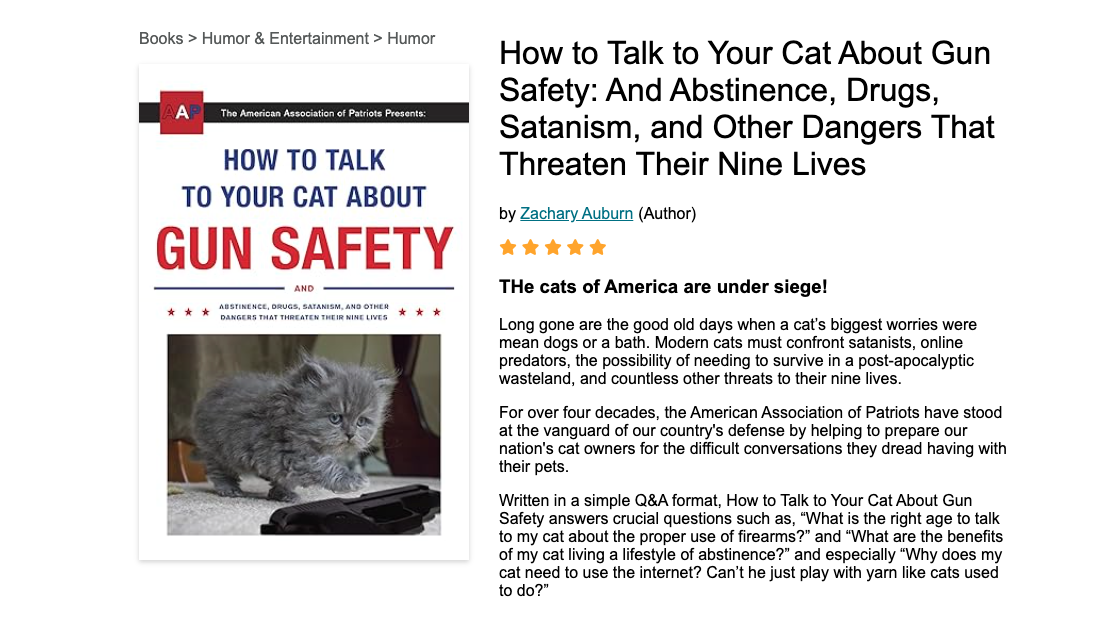
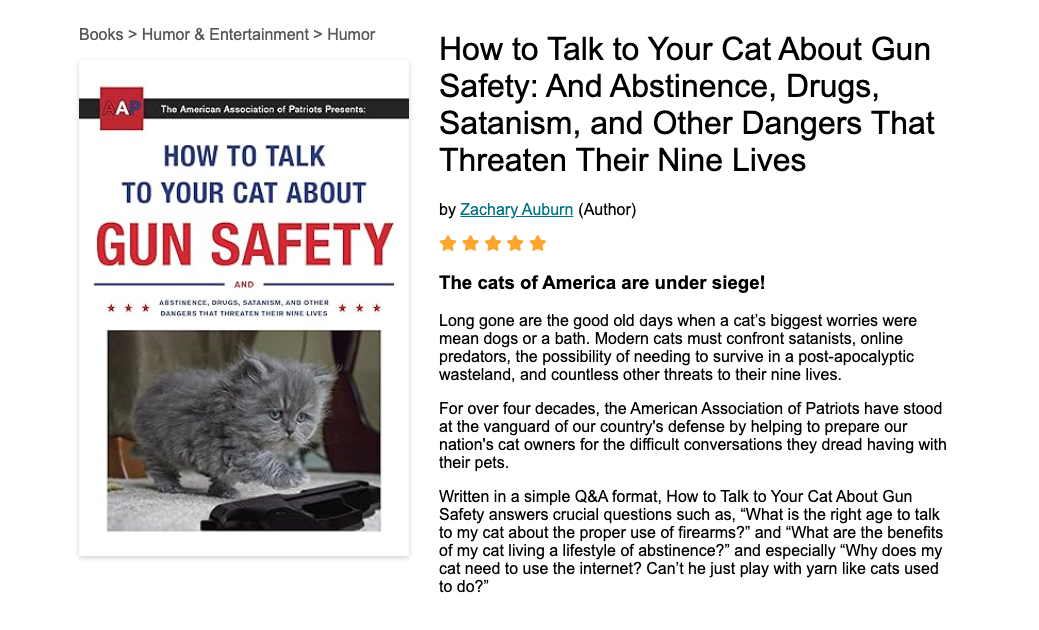
minor fixes

Changed region(s): [[0.0616, 0.0302, 0.924, 0.9349], [0.0924, 0.8746, 0.1232, 0.9048]]

diff --git a/index.html b/index.html
@@ -35,7 +35,7 @@
             </div>
             
             <!-- content -->
-            <h3>THe cats of America are under siege!</h3>
+            <h3>The cats of America are under siege!</h3>
             <p>Long gone are the good old days when a cat’s biggest worries were mean dogs or a bath. Modern cats must confront satanists, online predators, the possibility of needing to survive in a post-apocalyptic wasteland, and countless other threats to their nine lives.</p>
             <p>For over four decades, the American Association of Patriots have stood at the vanguard of our country's defense by helping to prepare our nation's cat owners for the difficult conversations they dread having with their pets.</p>
             <p>Written in a simple Q&A format, How to Talk to Your Cat About Gun Safety answers crucial questions such as, “What is the right age to talk to my cat about the proper use of firearms?” and “What are the benefits of my cat living a lifestyle of abstinence?” and especially “Why does my cat need to use the internet? Can’t he just play with yarn like cats used to do?”</p>

diff --git a/README.md b/README.md
@@ -37,7 +37,7 @@ This page displays the book cover, title, author, ratings, and a brief descripti
 
 ## Live Demo
 
-Check out the live demo: [View Live Demo]()
+Check out the Amazon Product Page [here](https://amazon-product-page.vercel.app/) 
 
 ## Contributing
 
